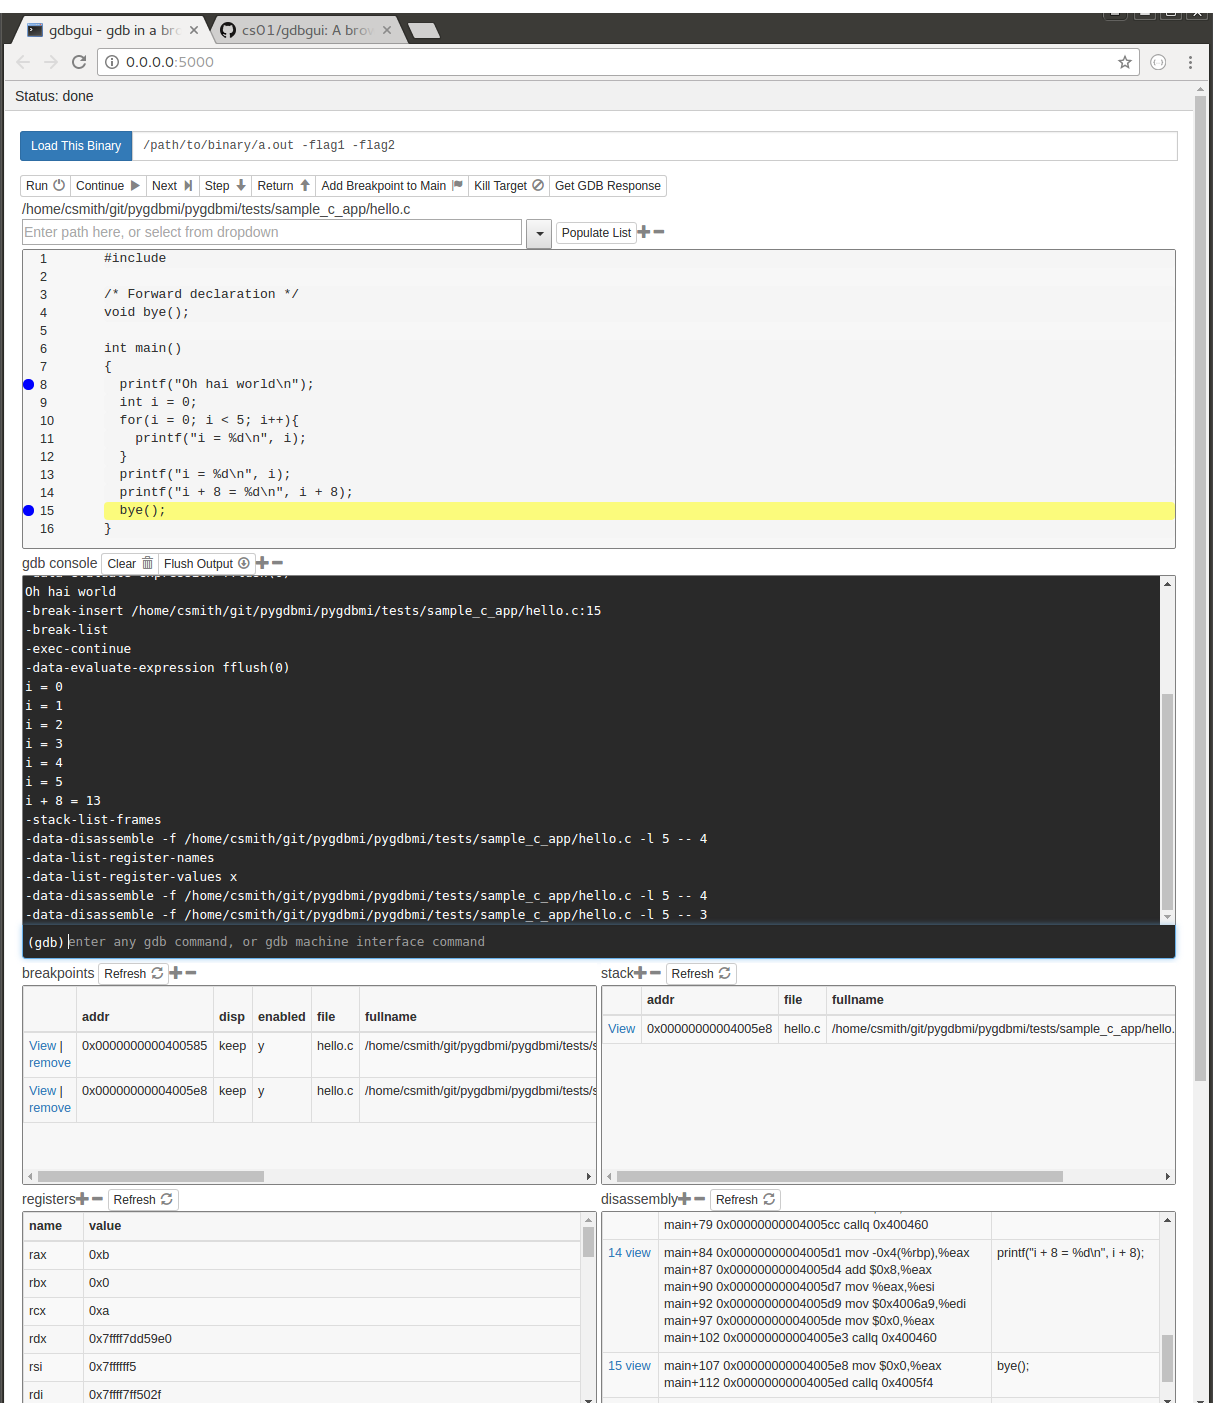
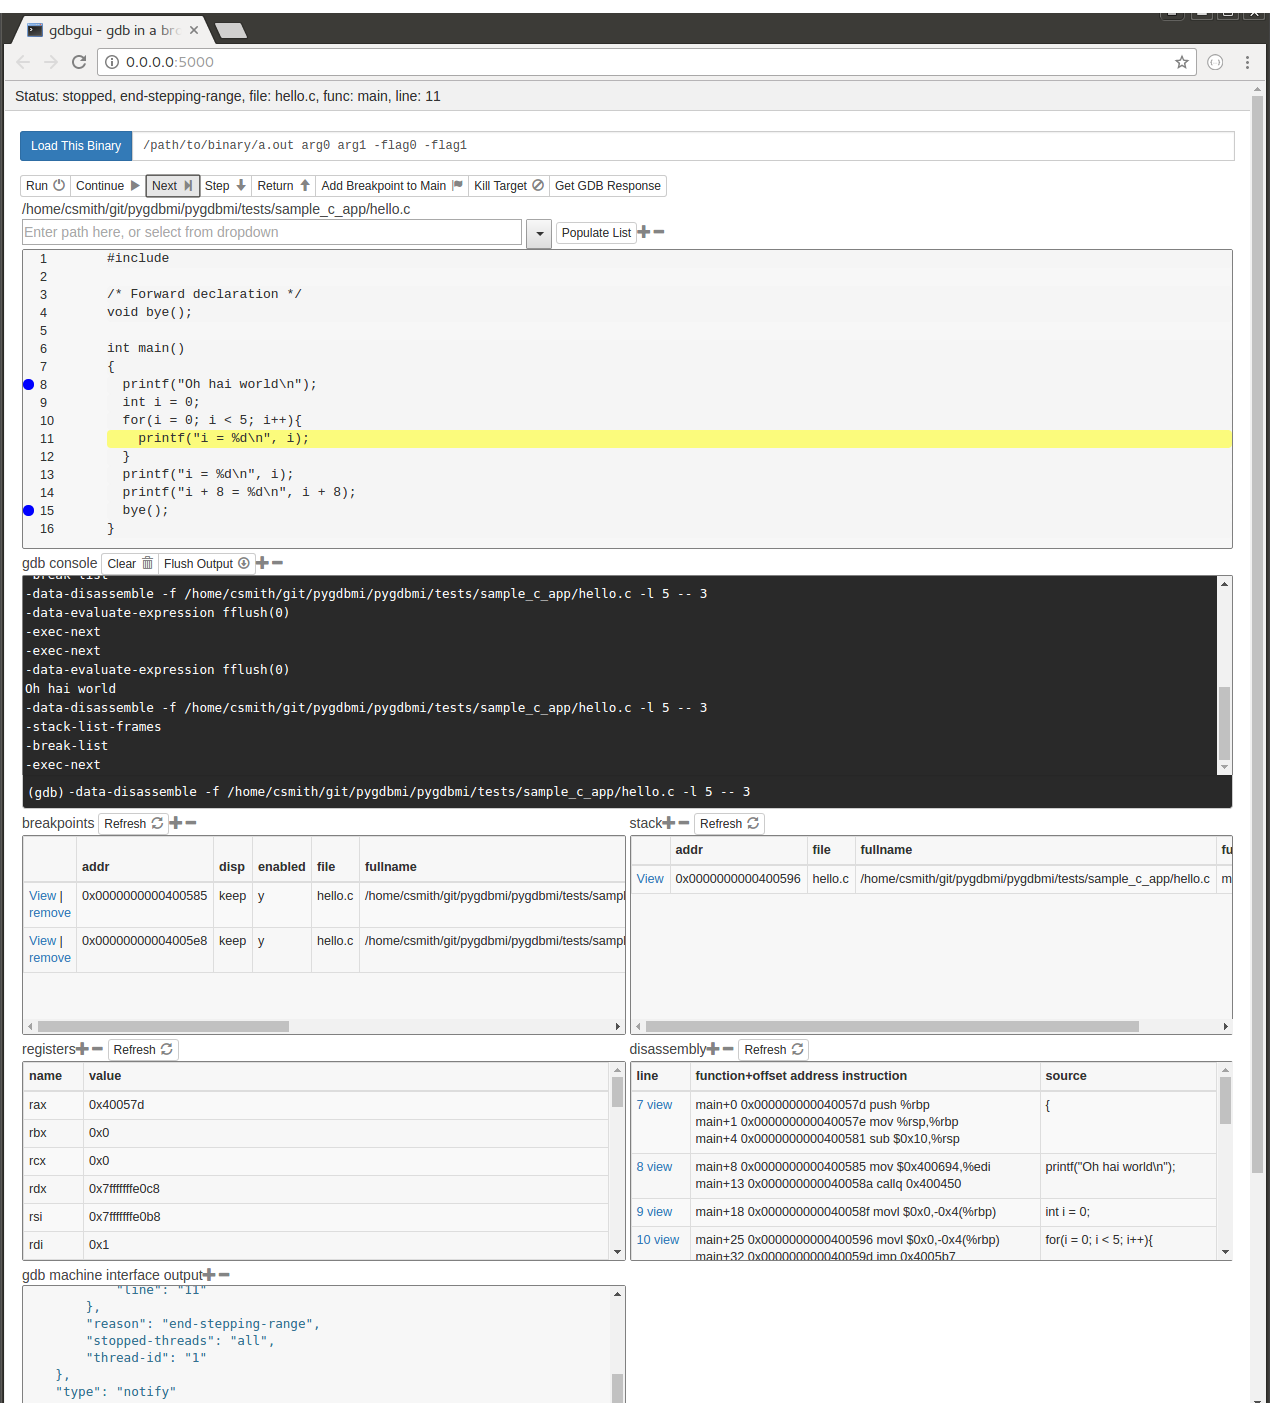
show error message or last message received; update screenshot

diff --git a/gdbgui/static/js/gdbgui.js b/gdbgui/static/js/gdbgui.js
@@ -637,7 +637,9 @@ const GdbCommandInput = {
         }
     },
     run_current_command: function(){
-        GdbApi.run_gdb_command(GdbCommandInput.el.val())
+        let cmd = GdbCommandInput.el.val()
+        GdbCommandInput.clear()
+        GdbApi.run_gdb_command(cmd)
     },
     set_input_text: function(new_text){
         GdbCommandInput.el.val(new_text)
@@ -645,6 +647,9 @@ const GdbCommandInput = {
     make_flash: function(){
         GdbCommandInput.el.removeClass('flash')
         GdbCommandInput.el.addClass('flash')
+    },
+    clear: function(){
+        GdbCommandInput.el.val('')
     }
 }
 
@@ -680,6 +685,10 @@ const GlobalEvents = {
 }
 
 const process_gdb_response = function(response_array){
+
+    // update status with error or with last response
+    let update_status = true
+
     for (let r of response_array){
         if (r.type === 'result' && r.message === 'done' && r.payload){
             // This is special GDB Machine Interface structured data that we
@@ -709,6 +718,7 @@ const process_gdb_response = function(response_array){
             } else if ('files' in r.payload){
                 SourceFileAutocomplete.input.list = _.uniq(r.payload.files.map(f => f.fullname)).sort()
                 SourceFileAutocomplete.input.evaluate()
+
             } // else if (your check here) {
             //      render your custom compenent here!
             // }
@@ -733,10 +743,18 @@ const process_gdb_response = function(response_array){
         if (r.message && r.message === 'stopped' && r.payload && r.payload.reason && r.payload.reason.includes('exited')){
             SourceCode.remove_current_line()
         }
+
+        if(update_status && _.isString(r.message) && (r.message.indexOf('error') !== -1 || r.message.indexOf('not found') !== -1)){
+            Status.render_from_gdb_mi_response(r)
+            update_status = false
+        }
     }
 
-    // render response of last element of array
-    Status.render_from_gdb_mi_response(_.last(response_array))
+    if(update_status){
+        // render response of last element of array
+        Status.render_from_gdb_mi_response(_.last(response_array))
+        update_status = false
+    }
 
     if(response_array.length > 0){
         // scroll to the bottom
